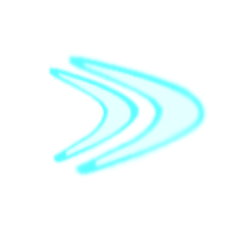
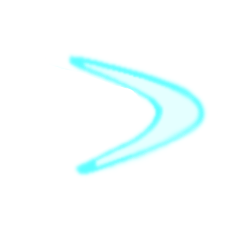
feat(CyclopsSpeedUpgrades): added new MKIII module
Updated icons to represent the new module.
Updated crafting recipes to be rebalanced.

Changed region(s): [[0.213, 0.2739, 0.6087, 0.7304]]

diff --git a/CyclopsSpeedUpgrades/Modules/CyclopsSpeedModuleMKIIII.cs b/CyclopsSpeedUpgrades/Modules/CyclopsSpeedModuleMKIIII.cs
@@ -1,0 +1,39 @@
+using System.Collections.Generic;
+using SMLHelper.V2.Crafting;
+using Sprite = Atlas.Sprite;
+namespace CyclopsSpeedUpgrades.Modules
+{
+    public class CyclopsSpeedModuleMKIIII: BaseCyclopsSpeedModule
+    {
+        public override float ForwardSpeedMultiplier => 6;
+        public override float VerticalSpeedMultiplier => 1.5f;
+        public override float TurningTroqueMultiplier => 1.4f;
+
+        public override float PowerConsumptionMultiplier => 2f;
+
+        public CyclopsSpeedModuleMKIIII() : base
+        (
+            4,
+            "Increases speed of the cyclops in an incredibly crazy way at the cost of an absurd power consumption. Not stackable"
+        )
+        {
+        }
+        protected override TechData GetBlueprintRecipe()
+        {
+            return new TechData()
+            {
+                craftAmount = 1,
+                Ingredients = new List<Ingredient>()
+                {
+                    new(Main.CyclopsSpeedModuleMKIII.TechType, 1),
+                    new(TechType.PrecursorIonBattery, 1),
+                    new(TechType.Kyanite, 1)
+                }
+            };
+        }
+        protected override Sprite GetItemSprite()
+        {
+            return LoadSprite("mkiiii.png");
+        }
+    }
+}

diff --git a/CyclopsSpeedUpgrades/Modules/CyclopsSpeedModuleMKII.cs b/CyclopsSpeedUpgrades/Modules/CyclopsSpeedModuleMKII.cs
@@ -6,8 +6,8 @@ namespace CyclopsSpeedUpgrades.Modules
     public class CyclopsSpeedModuleMKII: BaseCyclopsSpeedModule
     {
         public override float ForwardSpeedMultiplier => 3f;
-        public override float VerticalSpeedMultiplier => 1.3f;
-        public override float TurningTroqueMultiplier => 1.2f;
+        public override float VerticalSpeedMultiplier => 1.2f;
+        public override float TurningTroqueMultiplier => 1.1f;
         public override float PowerConsumptionMultiplier => 0.6f;
 
         public CyclopsSpeedModuleMKII() : base
@@ -22,12 +22,11 @@ namespace CyclopsSpeedUpgrades.Modules
             return new TechData()
             {
                 craftAmount = 1,
-                // same recipe has seamoth solar charge
                 Ingredients = new List<Ingredient>()
                 {
                     new(Main.CyclopsSpeedModuleMKI.TechType, 1),
-                    new(TechType.AdvancedWiringKit, 1),
-                    new(TechType.Aerogel, 1)
+                    new(TechType.WiringKit, 1),
+                    new(TechType.Lithium, 1)
                 }
             };
         }

diff --git a/CyclopsSpeedUpgrades/Modules/CyclopsSpeedModuleMKIII.cs b/CyclopsSpeedUpgrades/Modules/CyclopsSpeedModuleMKIII.cs
@@ -6,8 +6,8 @@ namespace CyclopsSpeedUpgrades.Modules
     public class CyclopsSpeedModuleMKIII: BaseCyclopsSpeedModule
     {
         public override float ForwardSpeedMultiplier => 4;
-        public override float VerticalSpeedMultiplier => 1.4f;
-        public override float TurningTroqueMultiplier => 1.3f;
+        public override float VerticalSpeedMultiplier => 1.3f;
+        public override float TurningTroqueMultiplier => 1.2f;
 
         public override float PowerConsumptionMultiplier => 1f;
 
@@ -23,11 +23,10 @@ namespace CyclopsSpeedUpgrades.Modules
             return new TechData()
             {
                 craftAmount = 1,
-                // same recipe has seamoth solar charge
                 Ingredients = new List<Ingredient>()
                 {
                     new(Main.CyclopsSpeedModuleMKII.TechType, 1),
-                    new(TechType.Kyanite, 1),
+                    new(TechType.AdvancedWiringKit, 1),
                     new(TechType.PrecursorIonCrystal, 1)
                 }
             };

diff --git a/CyclopsSpeedUpgrades/Modules/CyclopsSpeedModuleMKI.cs b/CyclopsSpeedUpgrades/Modules/CyclopsSpeedModuleMKI.cs
@@ -7,8 +7,8 @@ namespace CyclopsSpeedUpgrades.Modules
     public class CyclopsSpeedModuleMKI: BaseCyclopsSpeedModule
     {
         public override float ForwardSpeedMultiplier => 2f;
-        public override float VerticalSpeedMultiplier => 1.2f;
-        public override float TurningTroqueMultiplier => 1.1f;
+        public override float VerticalSpeedMultiplier => 1f;
+        public override float TurningTroqueMultiplier => 1f;
         public override float PowerConsumptionMultiplier => 0.3f;
 
         public CyclopsSpeedModuleMKI() : base
@@ -26,7 +26,7 @@ namespace CyclopsSpeedUpgrades.Modules
                 // same recipe has seamoth solar charge
                 Ingredients = new List<Ingredient>()
                 {
-                    new(TechType.WiringKit, 1),
+                    new(TechType.ComputerChip, 1),
                     new(TechType.Magnetite, 1),
                     new(TechType.Lubricant, 1)
                 }

diff --git a/CyclopsSpeedUpgrades/Main.cs b/CyclopsSpeedUpgrades/Main.cs
@@ -21,12 +21,14 @@ namespace CyclopsSpeedUpgrades
         internal static CyclopsSpeedModuleMKI CyclopsSpeedModuleMKI = new();
         internal static CyclopsSpeedModuleMKII CyclopsSpeedModuleMKII = new();
         internal static CyclopsSpeedModuleMKIII CyclopsSpeedModuleMKIII = new();
+        internal static CyclopsSpeedModuleMKIIII CyclopsSpeedModuleMKIIII = new();
 
         internal static List<BaseCyclopsSpeedModule> CyclopsSpeedModules = new()
         {
             CyclopsSpeedModuleMKI,
             CyclopsSpeedModuleMKII,
-            CyclopsSpeedModuleMKIII
+            CyclopsSpeedModuleMKIII,
+            CyclopsSpeedModuleMKIIII
         };
         /// <summary>
         /// Initialise the configuration settings and patch methods
